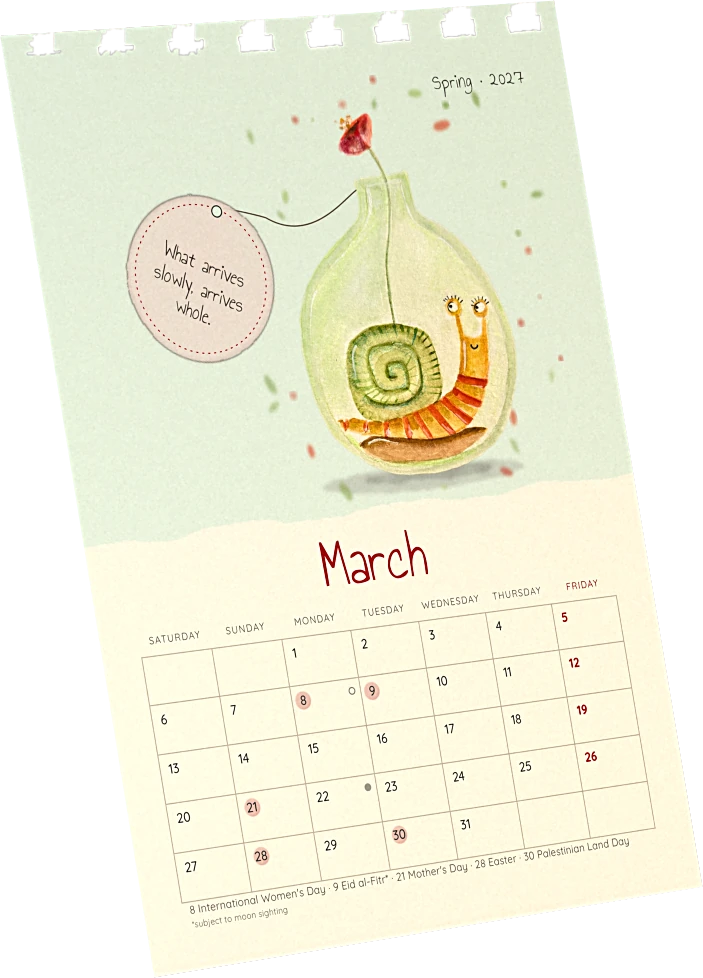
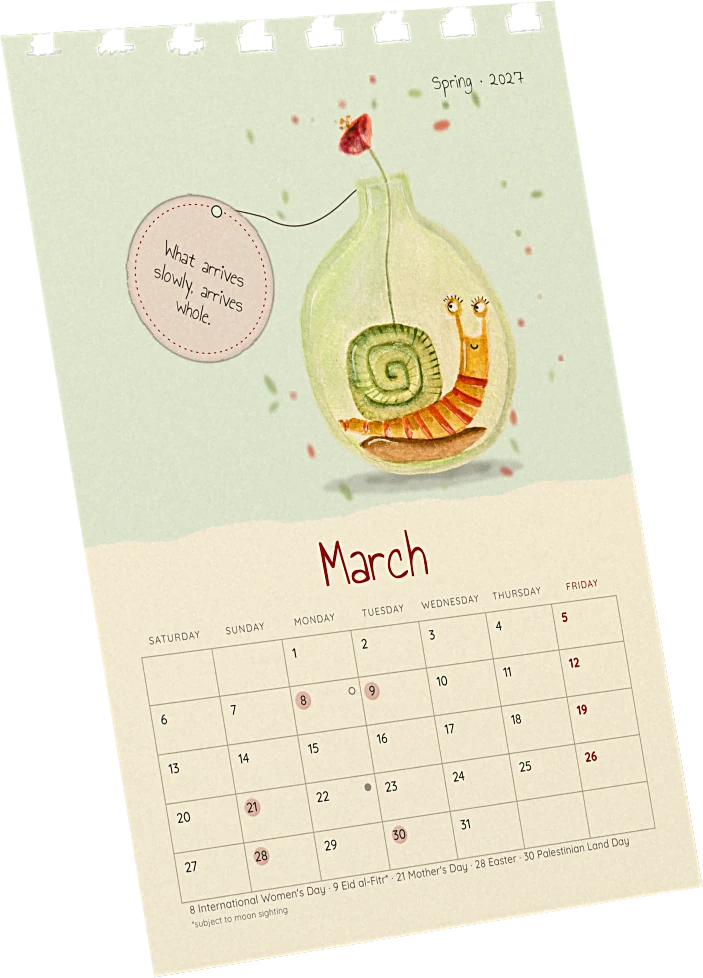
Bottles mockup: calendar cut out, its shadow a multiply layer, so it sits on the page with no photo edge
Claude-Session: https://claude.ai/code/session_011WuUMkvb8t9MEEabS5wD9n

diff --git a/web/calendar.html b/web/calendar.html
@@ -19,10 +19,10 @@
 <link rel="preload" href="fonts/geist-mono-latin-500-normal.woff2" as="font" type="font/woff2" crossorigin>
 <link rel="stylesheet" href="fonts/all.css">
 <link rel="stylesheet" href="fonts/figtree.css">
-<link rel="stylesheet" href="assets/css/site.css?v=918a2f26">
-<link rel="stylesheet" href="assets/css/hand.css?v=918a2f26">
-<link rel="stylesheet" href="assets/css/calendar.css?v=918a2f26">
-<script src="assets/js/boot.js?v=918a2f26"></script>
+<link rel="stylesheet" href="assets/css/site.css?v=c1895385">
+<link rel="stylesheet" href="assets/css/hand.css?v=c1895385">
+<link rel="stylesheet" href="assets/css/calendar.css?v=c1895385">
+<script src="assets/js/boot.js?v=c1895385"></script>
 </head>
 <body>
 <a class="skip" href="#main" data-ar="انتقلوا إلى المحتوى">Skip to content</a>
@@ -79,7 +79,7 @@
     <div class="btl-hd"><h2 class="big" id="bt-h" data-ar="ما في القوارير">What the bottles keep</h2><p data-ar="اختاروا قارورة لتروها في التقويم.">Choose a bottle to see it in the calendar.</p></div>
     <ul class="btrow" id="btrow"></ul>
     <div class="btshow" id="btshow" aria-live="polite">
-      <div class="bts-im" id="btsim"><img class="bts-base" src="assets/cdm-base.webp" alt="" width="1480" height="1800"><div class="bts-pg" id="btspg"></div><img id="btsA" alt="" width="960" height="1350"><img id="btsB" alt="" width="960" height="1350"></div>
+      <div class="bts-im" id="btsim"><img class="bts-sh" src="assets/cdm-shadow.webp" alt="" width="1480" height="1800"><img class="bts-base" src="assets/cdm-base.webp" alt="" width="1480" height="1800"><div class="bts-pg" id="btspg"></div><img id="btsA" alt="" width="960" height="1350"><img id="btsB" alt="" width="960" height="1350"></div>
       <div class="bts-tx">
         <p class="bts-s" id="btss"></p>
         <h3 class="bts-n" id="btsn"></h3>
@@ -141,10 +141,10 @@
   <div class="ft-z"><small data-ar="© 2026 ماس آند غراس، غزة، فلسطين">© 2026 Mass &amp; Grass, Gaza, Palestine</small><div class="soc" id="soc"></div></div>
 </footer>
 
-<script src="assets/js/catalog.js?v=918a2f26" defer></script>
-<script src="assets/js/art.js?v=918a2f26" defer></script>
-<script src="assets/js/core.js?v=918a2f26" defer></script>
-<script src="assets/js/mock.js?v=918a2f26" defer></script>
-<script src="assets/js/calendar.js?v=918a2f26" defer></script>
+<script src="assets/js/catalog.js?v=c1895385" defer></script>
+<script src="assets/js/art.js?v=c1895385" defer></script>
+<script src="assets/js/core.js?v=c1895385" defer></script>
+<script src="assets/js/mock.js?v=c1895385" defer></script>
+<script src="assets/js/calendar.js?v=c1895385" defer></script>
 </body>
 </html>

diff --git a/web/designs.html b/web/designs.html
@@ -19,12 +19,12 @@
 <link rel="preload" href="fonts/geist-mono-latin-500-normal.woff2" as="font" type="font/woff2" crossorigin>
 <link rel="stylesheet" href="fonts/all.css">
 <link rel="stylesheet" href="fonts/figtree.css">
-<link rel="stylesheet" href="assets/css/site.css?v=918a2f26">
-<link rel="stylesheet" href="assets/css/hand.css?v=918a2f26">
-<link rel="stylesheet" href="assets/css/tiles.css?v=918a2f26">
-<link rel="stylesheet" href="assets/css/book.css?v=918a2f26">
-<link rel="stylesheet" href="assets/css/designs.css?v=918a2f26">
-<script src="assets/js/boot.js?v=918a2f26"></script>
+<link rel="stylesheet" href="assets/css/site.css?v=c1895385">
+<link rel="stylesheet" href="assets/css/hand.css?v=c1895385">
+<link rel="stylesheet" href="assets/css/tiles.css?v=c1895385">
+<link rel="stylesheet" href="assets/css/book.css?v=c1895385">
+<link rel="stylesheet" href="assets/css/designs.css?v=c1895385">
+<script src="assets/js/boot.js?v=c1895385"></script>
 </head>
 <body>
 <a class="skip" href="#main" data-ar="انتقلوا إلى المحتوى">Skip to content</a>
@@ -119,11 +119,11 @@
   <div class="ft-z"><small data-ar="© 2026 ماس آند غراس، غزة، فلسطين">© 2026 Mass &amp; Grass, Gaza, Palestine</small><div class="soc" id="soc"></div></div>
 </footer>
 
-<script src="assets/js/catalog.js?v=918a2f26" defer></script>
-<script src="assets/js/art.js?v=918a2f26" defer></script>
-<script src="assets/js/core.js?v=918a2f26" defer></script>
-<script src="assets/js/mock.js?v=918a2f26" defer></script>
-<script src="assets/js/book.js?v=918a2f26" defer></script>
-<script src="assets/js/designs.js?v=918a2f26" defer></script>
+<script src="assets/js/catalog.js?v=c1895385" defer></script>
+<script src="assets/js/art.js?v=c1895385" defer></script>
+<script src="assets/js/core.js?v=c1895385" defer></script>
+<script src="assets/js/mock.js?v=c1895385" defer></script>
+<script src="assets/js/book.js?v=c1895385" defer></script>
+<script src="assets/js/designs.js?v=c1895385" defer></script>
 </body>
 </html>

diff --git a/web/book.html b/web/book.html
@@ -19,11 +19,11 @@
 <link rel="preload" href="fonts/geist-mono-latin-500-normal.woff2" as="font" type="font/woff2" crossorigin>
 <link rel="stylesheet" href="fonts/all.css">
 <link rel="stylesheet" href="fonts/figtree.css">
-<link rel="stylesheet" href="assets/css/site.css?v=918a2f26">
-<link rel="stylesheet" href="assets/css/hand.css?v=918a2f26">
-<link rel="stylesheet" href="assets/css/book.css?v=918a2f26">
-<link rel="stylesheet" href="assets/css/designs.css?v=918a2f26">
-<script src="assets/js/boot.js?v=918a2f26"></script>
+<link rel="stylesheet" href="assets/css/site.css?v=c1895385">
+<link rel="stylesheet" href="assets/css/hand.css?v=c1895385">
+<link rel="stylesheet" href="assets/css/book.css?v=c1895385">
+<link rel="stylesheet" href="assets/css/designs.css?v=c1895385">
+<script src="assets/js/boot.js?v=c1895385"></script>
 </head>
 <body>
 <a class="skip" href="#main" data-ar="انتقلوا إلى المحتوى">Skip to content</a>
@@ -106,10 +106,10 @@
   <div class="ft-z"><small data-ar="© 2026 ماس آند غراس، غزة، فلسطين">© 2026 Mass &amp; Grass, Gaza, Palestine</small><div class="soc" id="soc"></div></div>
 </footer>
 
-<script src="assets/js/catalog.js?v=918a2f26" defer></script>
-<script src="assets/js/art.js?v=918a2f26" defer></script>
-<script src="assets/js/core.js?v=918a2f26" defer></script>
-<script src="assets/js/mock.js?v=918a2f26" defer></script>
-<script src="assets/js/book.js?v=918a2f26" defer></script>
+<script src="assets/js/catalog.js?v=c1895385" defer></script>
+<script src="assets/js/art.js?v=c1895385" defer></script>
+<script src="assets/js/core.js?v=c1895385" defer></script>
+<script src="assets/js/mock.js?v=c1895385" defer></script>
+<script src="assets/js/book.js?v=c1895385" defer></script>
 </body>
 </html>

diff --git a/web/shop.html b/web/shop.html
@@ -19,11 +19,11 @@
 <link rel="preload" href="fonts/geist-mono-latin-500-normal.woff2" as="font" type="font/woff2" crossorigin>
 <link rel="stylesheet" href="fonts/all.css">
 <link rel="stylesheet" href="fonts/figtree.css">
-<link rel="stylesheet" href="assets/css/site.css?v=918a2f26">
-<link rel="stylesheet" href="assets/css/hand.css?v=918a2f26">
-<link rel="stylesheet" href="assets/css/tiles.css?v=918a2f26">
-<link rel="stylesheet" href="assets/css/shop.css?v=918a2f26">
-<script src="assets/js/boot.js?v=918a2f26"></script>
+<link rel="stylesheet" href="assets/css/site.css?v=c1895385">
+<link rel="stylesheet" href="assets/css/hand.css?v=c1895385">
+<link rel="stylesheet" href="assets/css/tiles.css?v=c1895385">
+<link rel="stylesheet" href="assets/css/shop.css?v=c1895385">
+<script src="assets/js/boot.js?v=c1895385"></script>
 </head>
 <body>
 <a class="skip" href="#main" data-ar="انتقلوا إلى المحتوى">Skip to content</a>
@@ -90,10 +90,10 @@
   <div class="ft-z"><small data-ar="© 2026 ماس آند غراس، غزة، فلسطين">© 2026 Mass &amp; Grass, Gaza, Palestine</small><div class="soc" id="soc"></div></div>
 </footer>
 
-<script src="assets/js/catalog.js?v=918a2f26" defer></script>
-<script src="assets/js/art.js?v=918a2f26" defer></script>
-<script src="assets/js/core.js?v=918a2f26" defer></script>
-<script src="assets/js/mock.js?v=918a2f26" defer></script>
-<script src="assets/js/shop.js?v=918a2f26" defer></script>
+<script src="assets/js/catalog.js?v=c1895385" defer></script>
+<script src="assets/js/art.js?v=c1895385" defer></script>
+<script src="assets/js/core.js?v=c1895385" defer></script>
+<script src="assets/js/mock.js?v=c1895385" defer></script>
+<script src="assets/js/shop.js?v=c1895385" defer></script>
 </body>
 </html>

diff --git a/web/commission.html b/web/commission.html
@@ -19,10 +19,10 @@
 <link rel="preload" href="fonts/geist-mono-latin-500-normal.woff2" as="font" type="font/woff2" crossorigin>
 <link rel="stylesheet" href="fonts/all.css">
 <link rel="stylesheet" href="fonts/figtree.css">
-<link rel="stylesheet" href="assets/css/site.css?v=918a2f26">
-<link rel="stylesheet" href="assets/css/hand.css?v=918a2f26">
-<link rel="stylesheet" href="assets/css/commission.css?v=918a2f26">
-<script src="assets/js/boot.js?v=918a2f26"></script>
+<link rel="stylesheet" href="assets/css/site.css?v=c1895385">
+<link rel="stylesheet" href="assets/css/hand.css?v=c1895385">
+<link rel="stylesheet" href="assets/css/commission.css?v=c1895385">
+<script src="assets/js/boot.js?v=c1895385"></script>
 </head>
 <body>
 <a class="skip" href="#main" data-ar="انتقلوا إلى المحتوى">Skip to content</a>
@@ -126,10 +126,10 @@
   <div class="ft-z"><small data-ar="© 2026 ماس آند غراس، غزة، فلسطين">© 2026 Mass &amp; Grass, Gaza, Palestine</small><div class="soc" id="soc"></div></div>
 </footer>
 
-<script src="assets/js/catalog.js?v=918a2f26" defer></script>
-<script src="assets/js/art.js?v=918a2f26" defer></script>
-<script src="assets/js/core.js?v=918a2f26" defer></script>
-<script src="assets/js/mock.js?v=918a2f26" defer></script>
-<script src="assets/js/commission.js?v=918a2f26" defer></script>
+<script src="assets/js/catalog.js?v=c1895385" defer></script>
+<script src="assets/js/art.js?v=c1895385" defer></script>
+<script src="assets/js/core.js?v=c1895385" defer></script>
+<script src="assets/js/mock.js?v=c1895385" defer></script>
+<script src="assets/js/commission.js?v=c1895385" defer></script>
 </body>
 </html>

diff --git a/web/paintings.html b/web/paintings.html
@@ -19,10 +19,10 @@
 <link rel="preload" href="fonts/geist-mono-latin-500-normal.woff2" as="font" type="font/woff2" crossorigin>
 <link rel="stylesheet" href="fonts/all.css">
 <link rel="stylesheet" href="fonts/figtree.css">
-<link rel="stylesheet" href="assets/css/site.css?v=918a2f26">
-<link rel="stylesheet" href="assets/css/hand.css?v=918a2f26">
-<link rel="stylesheet" href="assets/css/paintings.css?v=918a2f26">
-<script src="assets/js/boot.js?v=918a2f26"></script>
+<link rel="stylesheet" href="assets/css/site.css?v=c1895385">
+<link rel="stylesheet" href="assets/css/hand.css?v=c1895385">
+<link rel="stylesheet" href="assets/css/paintings.css?v=c1895385">
+<script src="assets/js/boot.js?v=c1895385"></script>
 </head>
 <body>
 <a class="skip" href="#main" data-ar="انتقلوا إلى المحتوى">Skip to content</a>
@@ -111,10 +111,10 @@
   <div class="ft-z"><small data-ar="© 2026 ماس آند غراس، غزة، فلسطين">© 2026 Mass &amp; Grass, Gaza, Palestine</small><div class="soc" id="soc"></div></div>
 </footer>
 
-<script src="assets/js/catalog.js?v=918a2f26" defer></script>
-<script src="assets/js/art.js?v=918a2f26" defer></script>
-<script src="assets/js/core.js?v=918a2f26" defer></script>
-<script src="assets/js/mock.js?v=918a2f26" defer></script>
-<script src="assets/js/paintings.js?v=918a2f26" defer></script>
+<script src="assets/js/catalog.js?v=c1895385" defer></script>
+<script src="assets/js/art.js?v=c1895385" defer></script>
+<script src="assets/js/core.js?v=c1895385" defer></script>
+<script src="assets/js/mock.js?v=c1895385" defer></script>
+<script src="assets/js/paintings.js?v=c1895385" defer></script>
 </body>
 </html>

diff --git a/web/postcards.html b/web/postcards.html
@@ -19,10 +19,10 @@
 <link rel="preload" href="fonts/geist-mono-latin-500-normal.woff2" as="font" type="font/woff2" crossorigin>
 <link rel="stylesheet" href="fonts/all.css">
 <link rel="stylesheet" href="fonts/figtree.css">
-<link rel="stylesheet" href="assets/css/site.css?v=918a2f26">
-<link rel="stylesheet" href="assets/css/hand.css?v=918a2f26">
-<link rel="stylesheet" href="assets/css/postcards.css?v=918a2f26">
-<script src="assets/js/boot.js?v=918a2f26"></script>
+<link rel="stylesheet" href="assets/css/site.css?v=c1895385">
+<link rel="stylesheet" href="assets/css/hand.css?v=c1895385">
+<link rel="stylesheet" href="assets/css/postcards.css?v=c1895385">
+<script src="assets/js/boot.js?v=c1895385"></script>
 </head>
 <body>
 <a class="skip" href="#main" data-ar="انتقلوا إلى المحتوى">Skip to content</a>
@@ -162,10 +162,10 @@
   <div class="ft-z"><small data-ar="© 2026 ماس آند غراس، غزة، فلسطين">© 2026 Mass &amp; Grass, Gaza, Palestine</small><div class="soc" id="soc"></div></div>
 </footer>
 
-<script src="assets/js/catalog.js?v=918a2f26" defer></script>
-<script src="assets/js/art.js?v=918a2f26" defer></script>
-<script src="assets/js/core.js?v=918a2f26" defer></script>
-<script src="assets/js/mock.js?v=918a2f26" defer></script>
-<script src="assets/js/postcards.js?v=918a2f26" defer></script>
+<script src="assets/js/catalog.js?v=c1895385" defer></script>
+<script src="assets/js/art.js?v=c1895385" defer></script>
+<script src="assets/js/core.js?v=c1895385" defer></script>
+<script src="assets/js/mock.js?v=c1895385" defer></script>
+<script src="assets/js/postcards.js?v=c1895385" defer></script>
 </body>
 </html>

diff --git a/web/palestine.html b/web/palestine.html
@@ -19,10 +19,10 @@
 <link rel="preload" href="fonts/geist-mono-latin-500-normal.woff2" as="font" type="font/woff2" crossorigin>
 <link rel="stylesheet" href="fonts/all.css">
 <link rel="stylesheet" href="fonts/figtree.css">
-<link rel="stylesheet" href="assets/css/site.css?v=918a2f26">
-<link rel="stylesheet" href="assets/css/hand.css?v=918a2f26">
-<link rel="stylesheet" href="assets/css/calendar.css?v=918a2f26">
-<script src="assets/js/boot.js?v=918a2f26"></script>
+<link rel="stylesheet" href="assets/css/site.css?v=c1895385">
+<link rel="stylesheet" href="assets/css/hand.css?v=c1895385">
+<link rel="stylesheet" href="assets/css/calendar.css?v=c1895385">
+<script src="assets/js/boot.js?v=c1895385"></script>
 </head>
 <body>
 <a class="skip" href="#main" data-ar="انتقلوا إلى المحتوى">Skip to content</a>
@@ -128,10 +128,10 @@
   <div class="ft-z"><small data-ar="© 2026 ماس آند غراس، غزة، فلسطين">© 2026 Mass &amp; Grass, Gaza, Palestine</small><div class="soc" id="soc"></div></div>
 </footer>
 
-<script src="assets/js/catalog.js?v=918a2f26" defer></script>
-<script src="assets/js/art.js?v=918a2f26" defer></script>
-<script src="assets/js/core.js?v=918a2f26" defer></script>
-<script src="assets/js/mock.js?v=918a2f26" defer></script>
-<script src="assets/js/palestine.js?v=918a2f26" defer></script>
+<script src="assets/js/catalog.js?v=c1895385" defer></script>
+<script src="assets/js/art.js?v=c1895385" defer></script>
+<script src="assets/js/core.js?v=c1895385" defer></script>
+<script src="assets/js/mock.js?v=c1895385" defer></script>
+<script src="assets/js/palestine.js?v=c1895385" defer></script>
 </body>
 </html>

diff --git a/web/stickers.html b/web/stickers.html
@@ -19,10 +19,10 @@
 <link rel="preload" href="fonts/geist-mono-latin-500-normal.woff2" as="font" type="font/woff2" crossorigin>
 <link rel="stylesheet" href="fonts/all.css">
 <link rel="stylesheet" href="fonts/figtree.css">
-<link rel="stylesheet" href="assets/css/site.css?v=918a2f26">
-<link rel="stylesheet" href="assets/css/hand.css?v=918a2f26">
-<link rel="stylesheet" href="assets/css/stickers.css?v=918a2f26">
-<script src="assets/js/boot.js?v=918a2f26"></script>
+<link rel="stylesheet" href="assets/css/site.css?v=c1895385">
+<link rel="stylesheet" href="assets/css/hand.css?v=c1895385">
+<link rel="stylesheet" href="assets/css/stickers.css?v=c1895385">
+<script src="assets/js/boot.js?v=c1895385"></script>
 </head>
 <body>
 <a class="skip" href="#main" data-ar="انتقلوا إلى المحتوى">Skip to content</a>
@@ -115,10 +115,10 @@
   <div class="ft-z"><small data-ar="© 2026 ماس آند غراس، غزة، فلسطين">© 2026 Mass &amp; Grass, Gaza, Palestine</small><div class="soc" id="soc"></div></div>
 </footer>
 
-<script src="assets/js/catalog.js?v=918a2f26" defer></script>
-<script src="assets/js/art.js?v=918a2f26" defer></script>
-<script src="assets/js/core.js?v=918a2f26" defer></script>
-<script src="assets/js/mock.js?v=918a2f26" defer></script>
-<script src="assets/js/stickers.js?v=918a2f26" defer></script>
+<script src="assets/js/catalog.js?v=c1895385" defer></script>
+<script src="assets/js/art.js?v=c1895385" defer></script>
+<script src="assets/js/core.js?v=c1895385" defer></script>
+<script src="assets/js/mock.js?v=c1895385" defer></script>
+<script src="assets/js/stickers.js?v=c1895385" defer></script>
 </body>
 </html>

diff --git a/web/checkout.html b/web/checkout.html
@@ -20,10 +20,10 @@
 <link rel="preload" href="fonts/geist-mono-latin-500-normal.woff2" as="font" type="font/woff2" crossorigin>
 <link rel="stylesheet" href="fonts/all.css">
 <link rel="stylesheet" href="fonts/figtree.css">
-<link rel="stylesheet" href="assets/css/site.css?v=918a2f26">
-<link rel="stylesheet" href="assets/css/hand.css?v=918a2f26">
-<link rel="stylesheet" href="assets/css/checkout.css?v=918a2f26">
-<script src="assets/js/boot.js?v=918a2f26"></script>
+<link rel="stylesheet" href="assets/css/site.css?v=c1895385">
+<link rel="stylesheet" href="assets/css/hand.css?v=c1895385">
+<link rel="stylesheet" href="assets/css/checkout.css?v=c1895385">
+<script src="assets/js/boot.js?v=c1895385"></script>
 </head>
 <body>
 <a class="skip" href="#main" data-ar="انتقلوا إلى المحتوى">Skip to content</a>
@@ -89,10 +89,10 @@
   <div class="ft-z"><small data-ar="© 2026 ماس آند غراس، غزة، فلسطين">© 2026 Mass &amp; Grass, Gaza, Palestine</small><div class="soc" id="soc"></div></div>
 </footer>
 
-<script src="assets/js/catalog.js?v=918a2f26" defer></script>
-<script src="assets/js/art.js?v=918a2f26" defer></script>
-<script src="assets/js/core.js?v=918a2f26" defer></script>
-<script src="assets/js/mock.js?v=918a2f26" defer></script>
-<script src="assets/js/checkout.js?v=918a2f26" defer></script>
+<script src="assets/js/catalog.js?v=c1895385" defer></script>
+<script src="assets/js/art.js?v=c1895385" defer></script>
+<script src="assets/js/core.js?v=c1895385" defer></script>
+<script src="assets/js/mock.js?v=c1895385" defer></script>
+<script src="assets/js/checkout.js?v=c1895385" defer></script>
 </body>
 </html>

diff --git a/web/account.html b/web/account.html
@@ -20,10 +20,10 @@
 <link rel="preload" href="fonts/geist-mono-latin-500-normal.woff2" as="font" type="font/woff2" crossorigin>
 <link rel="stylesheet" href="fonts/all.css">
 <link rel="stylesheet" href="fonts/figtree.css">
-<link rel="stylesheet" href="assets/css/site.css?v=918a2f26">
-<link rel="stylesheet" href="assets/css/hand.css?v=918a2f26">
-<link rel="stylesheet" href="assets/css/account.css?v=918a2f26">
-<script src="assets/js/boot.js?v=918a2f26"></script>
+<link rel="stylesheet" href="assets/css/site.css?v=c1895385">
+<link rel="stylesheet" href="assets/css/hand.css?v=c1895385">
+<link rel="stylesheet" href="assets/css/account.css?v=c1895385">
+<script src="assets/js/boot.js?v=c1895385"></script>
 </head>
 <body>
 <a class="skip" href="#main" data-ar="انتقلوا إلى المحتوى">Skip to content</a>
@@ -94,10 +94,10 @@
   <div class="ft-z"><small data-ar="© 2026 ماس آند غراس، غزة، فلسطين">© 2026 Mass &amp; Grass, Gaza, Palestine</small><div class="soc" id="soc"></div></div>
 </footer>
 
-<script src="assets/js/catalog.js?v=918a2f26" defer></script>
-<script src="assets/js/art.js?v=918a2f26" defer></script>
-<script src="assets/js/core.js?v=918a2f26" defer></script>
-<script src="assets/js/mock.js?v=918a2f26" defer></script>
-<script src="assets/js/account.js?v=918a2f26" defer></script>
+<script src="assets/js/catalog.js?v=c1895385" defer></script>
+<script src="assets/js/art.js?v=c1895385" defer></script>
+<script src="assets/js/core.js?v=c1895385" defer></script>
+<script src="assets/js/mock.js?v=c1895385" defer></script>
+<script src="assets/js/account.js?v=c1895385" defer></script>
 </body>
 </html>

diff --git a/web/profile.html b/web/profile.html
@@ -20,10 +20,10 @@
 <link rel="preload" href="fonts/geist-mono-latin-500-normal.woff2" as="font" type="font/woff2" crossorigin>
 <link rel="stylesheet" href="fonts/all.css">
 <link rel="stylesheet" href="fonts/figtree.css">
-<link rel="stylesheet" href="assets/css/site.css?v=918a2f26">
-<link rel="stylesheet" href="assets/css/hand.css?v=918a2f26">
-<link rel="stylesheet" href="assets/css/profile.css?v=918a2f26">
-<script src="assets/js/boot.js?v=918a2f26"></script>
+<link rel="stylesheet" href="assets/css/site.css?v=c1895385">
+<link rel="stylesheet" href="assets/css/hand.css?v=c1895385">
+<link rel="stylesheet" href="assets/css/profile.css?v=c1895385">
+<script src="assets/js/boot.js?v=c1895385"></script>
 </head>
 <body>
 <a class="skip" href="#main" data-ar="انتقلوا إلى المحتوى">Skip to content</a>
@@ -96,10 +96,10 @@
   <div class="ft-z"><small data-ar="© 2026 ماس آند غراس، غزة، فلسطين">© 2026 Mass &amp; Grass, Gaza, Palestine</small><div class="soc" id="soc"></div></div>
 </footer>
 
-<script src="assets/js/catalog.js?v=918a2f26" defer></script>
-<script src="assets/js/art.js?v=918a2f26" defer></script>
-<script src="assets/js/core.js?v=918a2f26" defer></script>
-<script src="assets/js/mock.js?v=918a2f26" defer></script>
-<script src="assets/js/profile.js?v=918a2f26" defer></script>
+<script src="assets/js/catalog.js?v=c1895385" defer></script>
+<script src="assets/js/art.js?v=c1895385" defer></script>
+<script src="assets/js/core.js?v=c1895385" defer></script>
+<script src="assets/js/mock.js?v=c1895385" defer></script>
+<script src="assets/js/profile.js?v=c1895385" defer></script>
 </body>
 </html>
